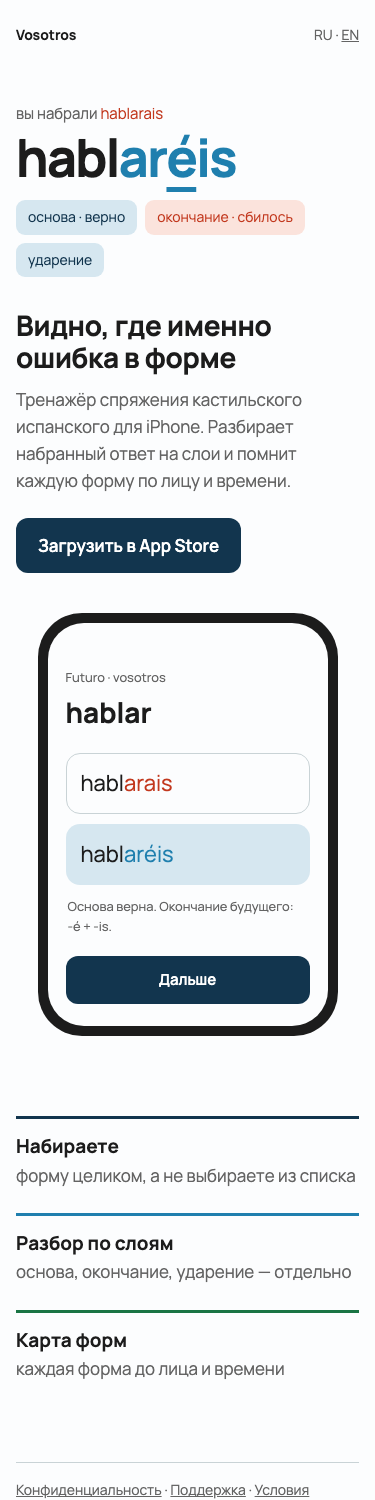
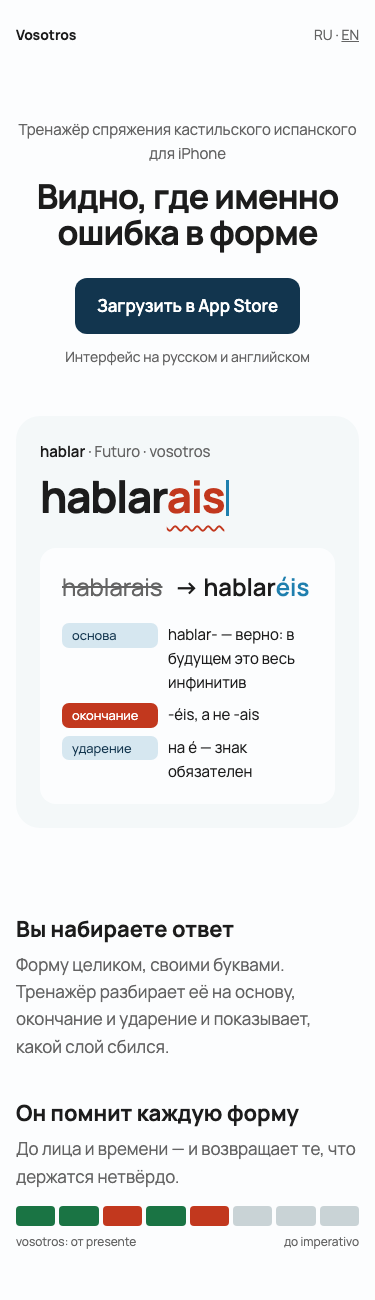
ЛН-1: вариант Б, круг 2 — синтез образцов (iA Writer: текст продукта героем; Grammarly: карточка правки; Things: тишина); кадры день/ночь; референсы в design/refs

diff --git a/design/variant-B.html b/design/variant-B.html
@@ -3,69 +3,90 @@
 <head>
 <meta charset="utf-8">
 <meta name="viewport" content="width=device-width, initial-scale=1">
-<title>Vosotros — вариант Б «Форма по слоям»</title>
+<title>Vosotros — вариант Б «Форма по слоям», круг 2</title>
 <style>
 @font-face{font-family:Manrope;src:url(fonts/Manrope.ttf) format("truetype");font-weight:200 800;font-display:swap}
-:root{--bg:#FCFDFE;--card:#F4F8F9;--ink:#1C1C1C;--muted:#646464;--line:#C9D3D6;--nest:#D6E7F0;--nestInk:#12354E;--mark:#1F7FAE;--err:#C2381E;--errBg:#FBE3DC;--ok:#1A7444;--btn:#12354E;--on:#fff;--frame:#1C1C1C;color-scheme:light dark}
-@media (prefers-color-scheme:dark){:root{--bg:#0D1A24;--card:#132B3D;--ink:#F5F5F5;--muted:#A1A1A1;--line:#26394A;--nest:#173349;--nestInk:#A5C8D1;--mark:#5EC3EA;--err:#FF6B4A;--errBg:#3A2420;--ok:#96D1AA;--btn:#A5C8D1;--on:#1C1C1E;--frame:#000}}
+:root{--bg:#FCFDFE;--sheet:#F4F8F9;--ink:#1C1C1C;--muted:#646464;--line:#D5DEE2;--nest:#D6E7F0;--nestInk:#12354E;--mark:#1F7FAE;--err:#C2381E;--ok:#1A7444;--okBg:#DCEFE3;--none:#C9D3D6;--btn:#12354E;--on:#fff;color-scheme:light dark}
+@media (prefers-color-scheme:dark){:root{--bg:#0D1A24;--sheet:#132B3D;--ink:#F5F5F5;--muted:#A1A1A1;--line:#26394A;--nest:#173349;--nestInk:#A5C8D1;--mark:#5EC3EA;--err:#FF6B4A;--ok:#96D1AA;--okBg:#1B3A2C;--none:#2F4556;--btn:#A5C8D1;--on:#1C1C1E}}
 *{box-sizing:border-box}
 body{margin:0;background:var(--bg);color:var(--ink);font:400 17px/1.6 Manrope,system-ui,sans-serif}
 a{color:inherit}
-.page{max-width:1080px;margin:0 auto;padding:24px 16px 40px}
+.page{max-width:1040px;margin:0 auto;padding:24px 16px 40px}
 header,footer{display:flex;justify-content:space-between;gap:12px;font-size:14px;color:var(--muted)}
 header b{color:var(--ink);font-weight:700}
-.hero{display:grid;gap:40px;align-items:center;margin-top:56px}
-@media (min-width:860px){.hero{grid-template-columns:1.4fr 1fr}}
-.typed{font-size:15px;color:var(--muted);margin:0}
-.typed span{color:var(--err)}
-.word{font-size:clamp(52px,12vw,96px);font-weight:700;letter-spacing:-.03em;line-height:1;margin:6px 0 16px}
-.word .m{color:var(--mark)} .word u{text-decoration-thickness:5px;text-underline-offset:10px}
-.chips{display:flex;flex-wrap:wrap;gap:8px;margin-bottom:32px;font-size:14px}
-.chips span{background:var(--nest);color:var(--nestInk);padding:6px 12px;border-radius:9px}
-.chips .bad{background:var(--errBg);color:var(--err)}
-h1{font-size:clamp(28px,5vw,40px);font-weight:700;line-height:1.15;letter-spacing:-.01em;margin:0 0 12px}
-.lead{color:var(--muted);max-width:34em;margin:0 0 24px}
+.intro{text-align:center;max-width:640px;margin:72px auto 48px}
+.kicker{font-size:15px;color:var(--muted);margin:0 0 12px}
+h1{font-size:clamp(34px,6.4vw,60px);font-weight:700;letter-spacing:-.025em;line-height:1.06;margin:0 0 28px}
 .btn{display:inline-block;background:var(--btn);color:var(--on);text-decoration:none;font-weight:600;border-radius:12px;padding:14px 22px}
-.phone{justify-self:center;width:min(300px,100%);background:var(--frame);border-radius:44px;padding:10px}
-.screen{background:var(--bg);border-radius:36px;padding:44px 18px 22px;font-size:15px}
-.screen .t{font-size:13px;color:var(--muted)} .screen .v{font-size:28px;font-weight:700;margin:2px 0 18px}
-.ans{border:1px solid var(--line);border-radius:14px;padding:12px 14px;font-size:22px;margin-bottom:10px}
-.ans.fix{border-color:transparent;background:var(--nest)}
-.ans .e{color:var(--err)} .ans .m{color:var(--mark)}
-.screen p{font-size:13px;color:var(--muted);line-height:1.5;margin:12px 2px 20px}
-.next{background:var(--btn);color:var(--on);border-radius:12px;padding:12px;text-align:center;font-weight:600}
-.three{display:grid;gap:24px;margin-top:80px}
-@media (min-width:700px){.three{grid-template-columns:repeat(3,1fr)}}
-.three div{border-top:3px solid var(--btn);padding-top:12px}
-.three div:nth-child(2){border-color:var(--mark)} .three div:nth-child(3){border-color:var(--ok)}
-.three b{display:block;font-size:19px} .three span{color:var(--muted)}
+.sub{font-size:14px;color:var(--muted);margin:12px 0 0}
+.sheet{background:var(--sheet);border-radius:24px;padding:clamp(24px,5vw,56px)}
+.ask{font-size:15px;color:var(--muted);margin:0}
+.ask b{color:var(--ink);font-weight:600}
+.typed{font-size:clamp(44px,10vw,96px);font-weight:700;letter-spacing:-.03em;line-height:1.1;margin:8px 0 28px;word-break:break-word}
+.typed .e{color:var(--err);text-decoration:underline wavy var(--err);text-decoration-thickness:2px;text-underline-offset:12px}
+.caret{display:inline-block;width:.06em;height:.82em;background:var(--mark);vertical-align:-.06em;margin-left:.04em;animation:blink 1.1s steps(1) infinite}
+@keyframes blink{50%{opacity:0}}
+@media (prefers-reduced-motion:reduce){.caret{animation:none}}
+.fix{background:var(--bg);border-radius:16px;padding:20px 22px;max-width:560px}
+.fix .row{display:flex;align-items:baseline;gap:12px;flex-wrap:wrap;font-size:clamp(24px,4.5vw,34px);font-weight:600}
+.fix .row s{color:var(--muted);font-weight:400;text-decoration-thickness:2px}
+.fix .row .m{color:var(--mark)}
+.layers{list-style:none;margin:16px 0 0;padding:0;display:grid;gap:8px;font-size:15px}
+.layers li{display:flex;gap:10px;align-items:baseline}
+.layers .t{display:inline-block;min-width:96px;padding:2px 10px;border-radius:7px;background:var(--nest);color:var(--nestInk);font-size:13px}
+.layers .bad .t{background:var(--err);color:var(--on)}
+.prose{display:grid;gap:40px;margin:88px 0 0}
+@media (min-width:760px){.prose{grid-template-columns:1fr 1fr;column-gap:64px}}
+.prose h2{font-size:22px;font-weight:700;line-height:1.25;margin:0 0 8px}
+.prose p{margin:0;color:var(--muted)}
+.strip{display:grid;grid-template-columns:repeat(8,1fr);gap:4px;margin-top:16px}
+.strip i{height:20px;border-radius:4px;background:var(--none)}
+.strip .o{background:var(--ok)} .strip .x{background:var(--err)}
+.strip-cap{display:flex;justify-content:space-between;font-size:12px;color:var(--muted);margin-top:6px}
+.end{text-align:center;margin:96px 0 0}
+.end p{font-size:clamp(24px,4vw,32px);font-weight:700;letter-spacing:-.015em;margin:0 0 20px}
 footer{margin-top:80px;padding-top:16px;border-top:1px solid var(--line);flex-wrap:wrap}
 </style>
 </head>
 <body><div class="page">
 <header><b>Vosotros</b><span>RU · <a href="#">EN</a></span></header>
 <main>
-<section class="hero">
-<div>
-<p class="typed">вы набрали <span>hablarais</span></p>
-<p class="word" aria-label="hablaréis">habl<span class="m">ar<u>é</u>is</span></p>
-<p class="chips"><span>основа · верно</span><span class="bad">окончание · сбилось</span><span>ударение</span></p>
-<h1>Видно, где именно ошибка в форме</h1>
-<p class="lead">Тренажёр спряжения кастильского испанского для iPhone. Разбирает набранный ответ на слои и помнит каждую форму по лицу и времени.</p>
+<section class="intro">
+<p class="kicker">Тренажёр спряжения кастильского испанского для iPhone</p>
+<h1>Видно, где именно ошибка в&nbsp;форме</h1>
 <a class="btn" href="#">Загрузить в App Store</a>
-</div>
-<div class="phone" aria-hidden="true"><div class="screen">
-<div class="t">Futuro · vosotros</div><div class="v">hablar</div>
-<div class="ans">habl<span class="e">arais</span></div>
-<div class="ans fix">habl<span class="m">aréis</span></div>
-<p>Основа верна. Окончание будущего: -é + -is.</p>
-<div class="next">Дальше</div>
-</div></div>
+<p class="sub">Интерфейс на русском и английском</p>
 </section>
-<section class="three">
-<div><b>Набираете</b><span>форму целиком, а не выбираете из списка</span></div>
-<div><b>Разбор по слоям</b><span>основа, окончание, ударение — отдельно</span></div>
-<div><b>Карта форм</b><span>каждая форма до лица и времени</span></div>
+
+<section class="sheet" aria-label="Пример разбора ответа">
+<p class="ask"><b>hablar</b> · Futuro · vosotros</p>
+<p class="typed">hablar<span class="e">ais</span><span class="caret" aria-hidden="true"></span></p>
+<div class="fix">
+<p class="row" style="margin:0"><s>hablarais</s><span style="white-space:nowrap"><span aria-hidden="true">→ </span>hablar<span class="m">éis</span></span></p>
+<ul class="layers">
+<li><span class="t">основа</span>hablar- — верно: в будущем это весь инфинитив</li>
+<li class="bad"><span class="t">окончание</span>-éis, а не -ais</li>
+<li><span class="t">ударение</span>на é — знак обязателен</li>
+</ul>
+</div>
+</section>
+
+<section class="prose">
+<div>
+<h2>Вы набираете ответ</h2>
+<p>Форму целиком, своими буквами. Тренажёр разбирает её на основу, окончание и ударение и показывает, какой слой сбился.</p>
+</div>
+<div>
+<h2>Он помнит каждую форму</h2>
+<p>До лица и времени — и возвращает те, что держатся нетвёрдо.</p>
+<div class="strip" aria-hidden="true"><i class="o"></i><i class="o"></i><i class="x"></i><i class="o"></i><i class="x"></i><i></i><i></i><i></i></div>
+<div class="strip-cap"><span>vosotros: от presente</span><span>до imperativo</span></div>
+</div>
+</section>
+
+<section class="end">
+<p>Vosotros — для тех, кто учит испанский Испании.</p>
+<a class="btn" href="#">Загрузить в App Store</a>
 </section>
 </main>
 <footer><span><a href="#">Конфиденциальность</a> · <a href="#">Поддержка</a> · <a href="https://www.apple.com/legal/internet-services/itunes/dev/stdeula/">Условия</a></span><span>© [Seller Name]</span></footer>
